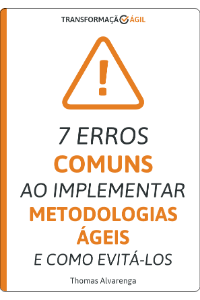
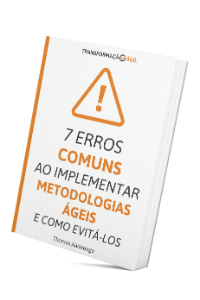
Change ebooks cover for 3D images and correct layout

diff --git a/_sass/home/_ebook.scss b/_sass/home/_ebook.scss
@@ -1,6 +1,5 @@
 .ebook {
   background-color: $color--primary;
-  margin-top: 50px;
   height: 200px;
   display: grid;
   grid-template-columns: 1fr 2fr 1fr;
@@ -19,7 +18,7 @@
 .ebook__description {
   grid-area: y;
   color: $color__white;
-  margin: auto;
+  margin: 15px auto;
   font-weight: 500;
 }
 
@@ -29,7 +28,8 @@
 
 .ebook__image {
   grid-area: x;
-  margin-top: -50px;
+  margin: -75px auto 0;
+  z-index: 1;
 }
 
 @media (max-width: $width--desktop) {
@@ -46,7 +46,6 @@
 
 @media (max-width: $width--tablet) {
   .ebook {
-    margin-top: 30px;
     grid-template-columns: 0.5fr 3fr 0.5fr;
     height: 160px;
   }
@@ -57,19 +56,18 @@
 
   .ebook__image {
     width: 150px;
-    margin-top: -30px;
+    margin-top: -50px;
   }
 }
 
 @media (max-width: $width--mobile-large) {
   .ebook {
-    margin-top: 80px;
-    height: 500px;
+    height: 520px;
   }
 
   .ebook__container {
     grid-template-columns: 1fr;
-    grid-template-rows: 2fr 1fr 1fr;
+    grid-template-rows: 0.5fr 0.3fr 0.3fr;
     grid-template-areas: "x"
                          "y"
                          "z";
@@ -78,7 +76,6 @@
   .ebook__image {
     width: 200px;
     margin: auto;
-    margin-top: -50px;
   }
 
   .ebook__description {

diff --git a/_includes/home/ebook.html b/_includes/home/ebook.html
@@ -3,7 +3,7 @@
     <img class="ebook__image" src="{{ "/assets/img/ebook-200.png" | relative_url }}" />
     <h3 class="ebook__description">
       Baixe nosso ebook e aprenda como evitar 7 erros comuns ao implementar
-      as metodologias ágeis que você pode estar cometendo com sua equipe.
+      as metodologias ágeis que você pode estar cometendo hoje com sua equipe!
     </h3>
     <div class="ebook__form">
       {%- include mailchimp-forms/home.html -%}

diff --git a/_sass/landing/_ebook-presentation.scss b/_sass/landing/_ebook-presentation.scss
@@ -3,6 +3,7 @@
   grid-template-columns: 1fr 4fr 1fr;
   grid-template-areas: "a b c";
   height: 400px;
+  margin-bottom: 50px;
 }
 
 .ebook-presentation__container {
@@ -18,7 +19,7 @@
 
 .ebook-presentation__cover {
   grid-area: x;
-  margin: 50px;
+  margin: 0 50px;
   width: 250px;
 }
 

diff --git a/_layouts/home.html b/_layouts/home.html
@@ -4,8 +4,8 @@ layout: default
 
 {%- include home/banner.html -%}
 
-{%- include home/videos.html -%}
-
 {%- include home/ebook.html -%}
+
+{%- include home/videos.html -%}
 
 {%- include shared/author.html -%}

diff --git a/_sass/shared/_author.scss b/_sass/shared/_author.scss
@@ -1,5 +1,4 @@
 .author {
-  margin-top: 100px;
   margin-bottom: 50px;
   height: 350px;
   display: grid;
